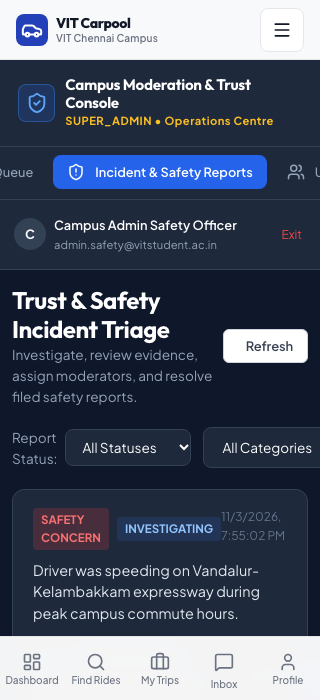
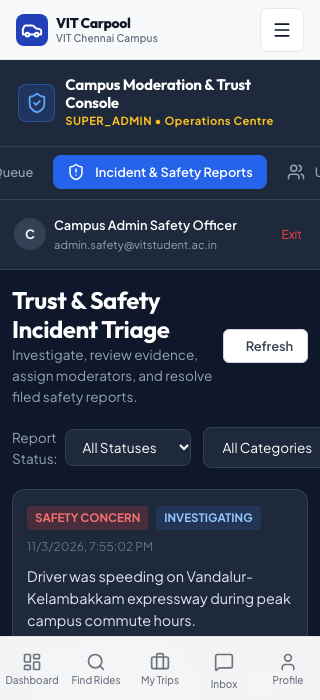
fix(mobile): wrap incident triage card badges, timestamps, and action rows in Admin Console
- Resolve badge and timestamp collision in Admin Incident Triage on 320px viewports
- Recaptured fresh browser evidence for 320x700 and 360x800
- Update docs/MOBILE_RESPONSIVENESS_AUDIT.md with findings

Changed region(s): [[0.0625, 0.72, 0.9062, 0.9]]

diff --git a/apps/web/src/pages/AdminDashboardPage.tsx b/apps/web/src/pages/AdminDashboardPage.tsx
@@ -1767,7 +1767,7 @@ export const AdminDashboardPage: React.FC = () => {
                   <div
                     key={r.id}
                     style={{
-                      padding: '18px 20px',
+                      padding: '16px 14px',
                       backgroundColor: '#1e293b',
                       borderRadius: '12px',
                       border: '1px solid #334155',
@@ -1776,12 +1776,14 @@ export const AdminDashboardPage: React.FC = () => {
                     <div
                       style={{
                         display: 'flex',
+                        flexWrap: 'wrap',
                         justifyContent: 'space-between',
-                        alignItems: 'flex-start',
+                        alignItems: 'center',
+                        gap: '8px',
                         marginBottom: '10px',
                       }}
                     >
-                      <div style={{ display: 'flex', alignItems: 'center', gap: '8px' }}>
+                      <div style={{ display: 'flex', flexWrap: 'wrap', alignItems: 'center', gap: '8px' }}>
                         <span
                           style={{
                             fontSize: '0.725rem',
@@ -1835,8 +1837,10 @@ export const AdminDashboardPage: React.FC = () => {
                     <div
                       style={{
                         display: 'flex',
+                        flexWrap: 'wrap',
                         justifyContent: 'space-between',
                         alignItems: 'center',
+                        gap: '10px',
                         fontSize: '0.75rem',
                         color: '#94a3b8',
                         paddingTop: '10px',

diff --git a/docs/MOBILE_RESPONSIVENESS_AUDIT.md b/docs/MOBILE_RESPONSIVENESS_AUDIT.md
@@ -261,6 +261,11 @@ In `apps/api/src/modules/locations/locations.service.ts`:
 In `apps/web/src/components/common/LocationAutocomplete.tsx`:
 - Expanded dropdown to `min(580px, calc(100vw - 32px))` on desktop/tablet with dynamic viewport boundary clamping (`left: -offset`), eliminating single-line ellipsis truncation and displaying full location names and addresses.
 
+### F. Admin Incident Triage Card Multi-Tier Wrapping
+In `apps/web/src/pages/AdminDashboardPage.tsx`:
+- Visual inspection at 320×700 revealed that incident report cards in the Safety Moderation tab had badges ("SAFETY CONCERN", "INVESTIGATING") colliding with the report date timestamp due to unconstrained single-line flex rows.
+- Added `flexWrap: 'wrap'`, adjusted card padding to `16px 14px`, and gave metadata and action buttons dedicated wrapping rows, cleanly separating status badges, timestamps, reporter credentials, and resolution actions on compact mobile screens.
+
 ---
 
 ## 7. Interactive Components, Modals & Drawers Mobile Inspection
